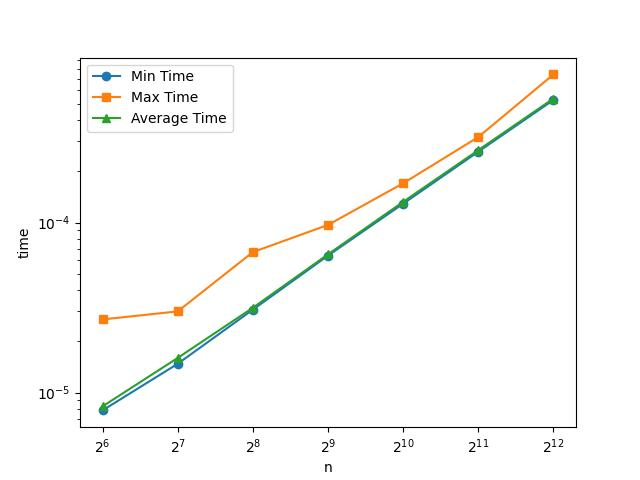
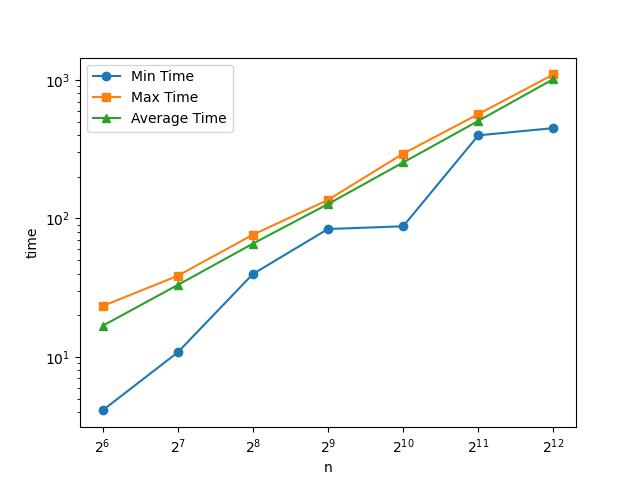
solved 1-1

diff --git a/assignment1/20240454.py b/assignment1/20240454.py
@@ -46,6 +46,8 @@ plt.savefig("./ratio_hist.jpg")
 
 plt.clf()
 
+print('ratio hist 1')
+
 minTime = list()
 maxTime = list()
 avgTime = list()
@@ -63,9 +65,10 @@ for i in range(6, 13):
         start = time.time()
         prefixAverages2(X, n)
         optimized[j] = time.time() - start
-    minTime.append(slow.min() / optimized.min())
-    maxTime.append(slow.max() / optimized.max())
-    avgTime.append(slow.mean() / optimized.mean())
+    minTime.append((slow / optimized).min())
+    maxTime.append((slow / optimized).max())
+    avgTime.append((slow / optimized).mean())
+    print(i)
     
 nSize = [2 ** i for i in range(6, 13)]
 
@@ -80,6 +83,8 @@ plt.legend()
 plt.savefig("./ratio plot.jpg")
 
 plt.clf()
+
+print('ratio plot 1')
 
 #==============1-2==============
 
